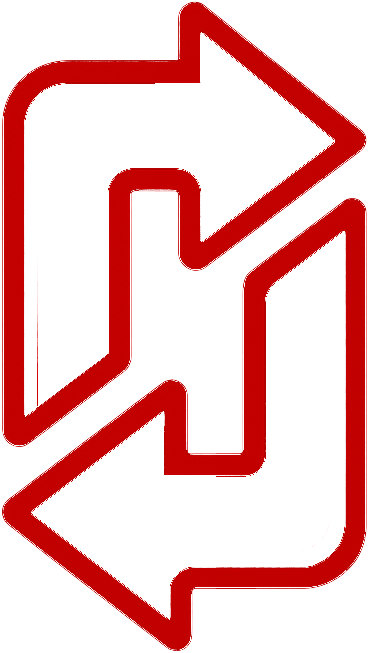
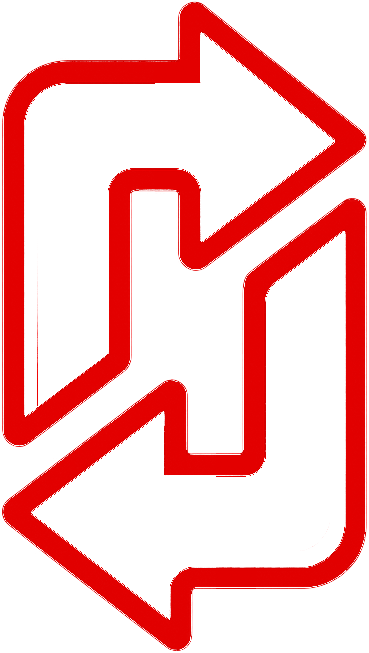
a

Changed region(s): [[0.0, 0.3063, 1.0, 1.0], [0.0, 0.0, 1.0, 0.7044]]

diff --git a/public/template3.html b/public/template3.html
@@ -755,7 +755,7 @@ function updateFieldsContent(data, rowNumber, row) {
 				}
 			}
 			const now = new Date().toLocaleString('pl-PL');
-			document.getElementById('refresh-icon').textContent = 
+			document.getElementById('last-update').textContent = 
 				`${now}`;
 		}
         
